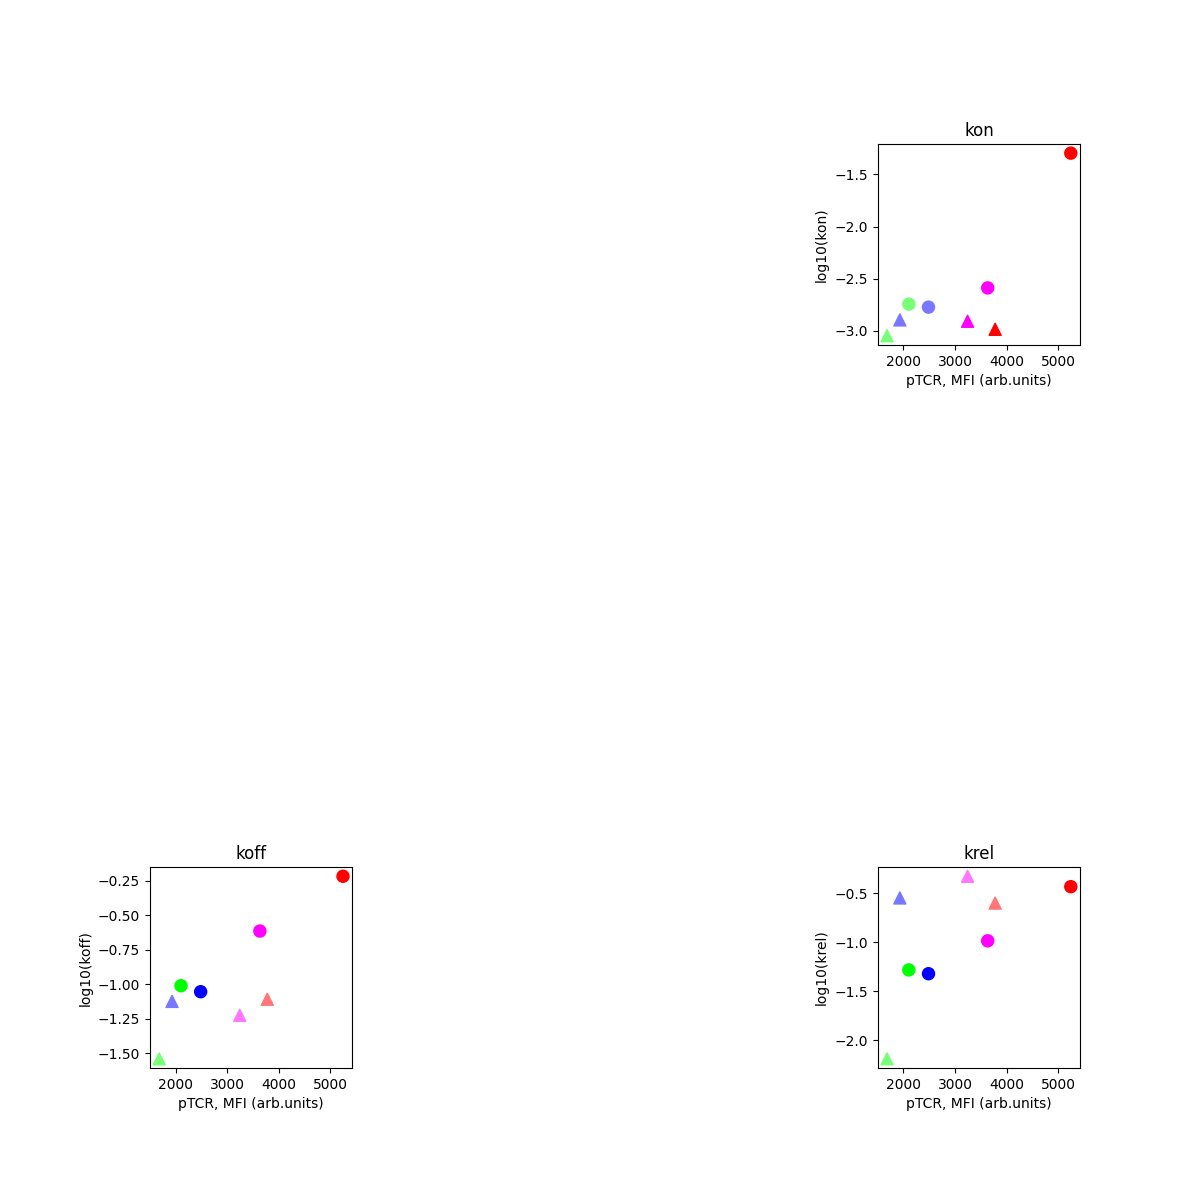
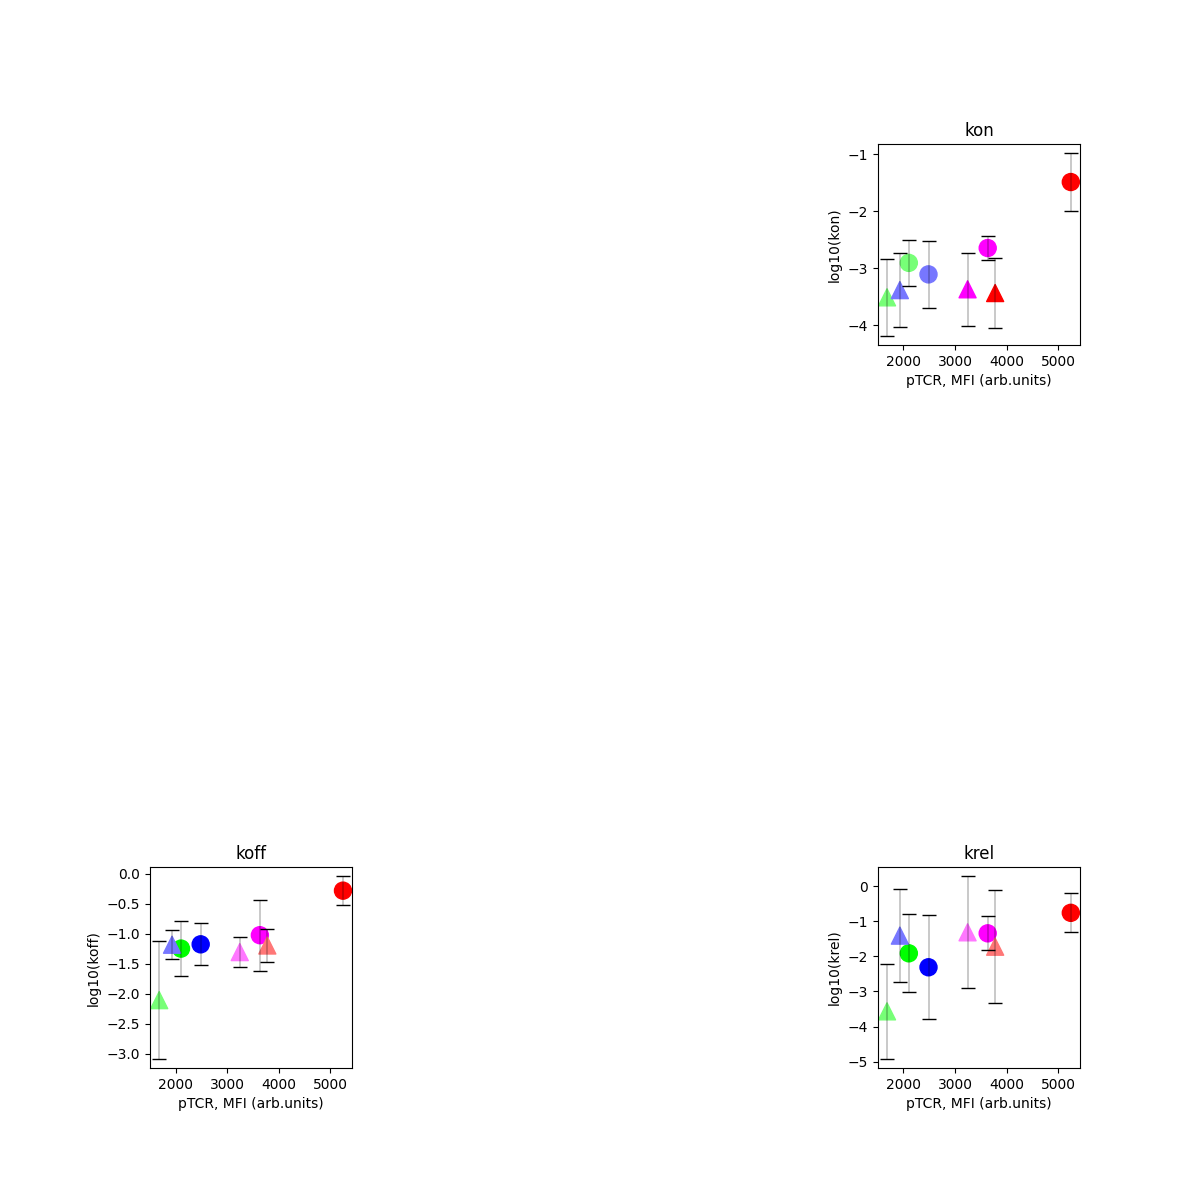
updated

diff --git a/other scripts and data/Fig 5C/kk_plots.py b/other scripts and data/Fig 5C/kk_plots.py
@@ -13,7 +13,8 @@ kNames2 = ["kon", "koff", "krel"]
 colors = np.array(["#ff0000", "#ff7777", "#ff00ff", "#ff77ff", "#00ff00", "#77ff77", "#0000ff", "#7777ff"])
 custom_cmap = ListedColormap(colors)
 
-values = []
+values_mean = []
+values_std = []
 
 fn_in_0 = 'pTCR.csv'
 
@@ -41,72 +42,65 @@ for i in range(3):
     data[np.where(data == '')] = 'nan'
     data_for_calc = data[:, 1:].astype(float)
     print(data_for_calc.shape)
-    means = np.nanmean(data_for_calc, 0)
-    logmeans = np.log10(means)
-    values.append(logmeans)
+    lod_data_for_calc = np.log10(data_for_calc)
+    #means = np.nanmean(data_for_calc, 0)
+    #logmeans = np.log10(means)
+    logmeans = np.nanmean(lod_data_for_calc, 0)
+    values_mean.append(logmeans)
+    logstd = np.nanstd(lod_data_for_calc, 0)
+    values_std.append(logstd)
 
 fig = plt.figure(figsize=(12, 12))
-# ax = fig.add_subplot(2, 2, 1, projection='3d')
-# ax.scatter(values[0], values[1], values[2], color=colors)
-# ax.xaxis.set_pane_color((0.0, 0.0, 0.0, 1.0))
-# ax.yaxis.set_pane_color((0.0, 0.0, 0.0, 1.0))
-# ax.zaxis.set_pane_color((0.0, 0.0, 0.0, 1.0))
 
 ax = fig.add_subplot(4, 4, 4)
 ax.set_title(kNames2[0])
-sc = ax.scatter(values_0, values[0], c=range(8), cmap=custom_cmap, s=5, marker='.')
-ax.scatter(values_0[[0, 2, 4, 6]], values[0][[0, 2, 4, 6]], c=[0, 2, 4, 6], cmap=custom_cmap, s=75, marker='o')
-ax.scatter(values_0[[1, 3, 5, 7]], values[0][[1, 3, 5, 7]], c=[1, 3, 5, 7], cmap=custom_cmap, s=75, marker='^')
-# xx = [values_0[0], values_0[0], values_0[0]]
-# yy = [values[0][0] + log10(0.5), values[0][0] + log10(0.2), values[0][0] + log10(0.1)]
-# ax.scatter(xx, yy, facecolors='none', edgecolors="#ff0000", s=75, marker='o')
+sc = ax.scatter(values_0, values_mean[0], c=range(8), cmap=custom_cmap, s=5, marker='.')
+ax.errorbar(values_0[[0, 2, 4, 6]], values_mean[0][[0, 2, 4, 6]], yerr=values_std[0][[0, 2, 4, 6]], fmt='none', ecolor='black', elinewidth=0.3, capsize=5)
+ax.errorbar(values_0[[1, 3, 5, 7]], values_mean[0][[1, 3, 5, 7]], yerr=values_std[0][[1, 3, 5, 7]], fmt='none', ecolor='black', elinewidth=0.3, capsize=5)
+ax.scatter(values_0[[0, 2, 4, 6]], values_mean[0][[0, 2, 4, 6]], c=[0, 2, 4, 6], cmap=custom_cmap, s=150, marker='o')
+ax.scatter(values_0[[1, 3, 5, 7]], values_mean[0][[1, 3, 5, 7]], c=[1, 3, 5, 7], cmap=custom_cmap, s=150, marker='^')
 ax.set_xlabel('pTCR, MFI (arb.units)')
 ax.set_ylabel(f'log10({kNames2[0]})')
-# cbar = fig.colorbar(sc, boundaries=np.arange(9) - 0.5)
-# cbar.set_ticks(np.arange(8))
-# cbar.set_ticklabels(ticklabels)
 
 ax = fig.add_subplot(4, 4, 13)
 ax.set_title(kNames2[1])
-sc = ax.scatter(values_0, values[1], c=range(8), cmap=custom_cmap, s=5, marker='.')
-ax.scatter(values_0[[0, 2, 4, 6]], values[1][[0, 2, 4, 6]], color=colors[[0, 2, 4, 6]], s=75, marker='o')
-ax.scatter(values_0[[1, 3, 5, 7]], values[1][[1, 3, 5, 7]], color=colors[[1, 3, 5, 7]], s=75, marker='^')
+sc = ax.scatter(values_0, values_mean[1], c=range(8), cmap=custom_cmap, s=5, marker='.')
+ax.errorbar(values_0[[0, 2, 4, 6]], values_mean[1][[0, 2, 4, 6]], yerr=values_std[1][[0, 2, 4, 6]], fmt='none', ecolor='black', elinewidth=0.3, capsize=5)
+ax.errorbar(values_0[[1, 3, 5, 7]], values_mean[1][[1, 3, 5, 7]], yerr=values_std[1][[1, 3, 5, 7]], fmt='none', ecolor='black', elinewidth=0.3, capsize=5)
+ax.scatter(values_0[[0, 2, 4, 6]], values_mean[1][[0, 2, 4, 6]], color=colors[[0, 2, 4, 6]], s=150, marker='o')
+ax.scatter(values_0[[1, 3, 5, 7]], values_mean[1][[1, 3, 5, 7]], color=colors[[1, 3, 5, 7]], s=150, marker='^')
 ax.set_xlabel('pTCR, MFI (arb.units)')
 ax.set_ylabel(f'log10({kNames2[1]})')
-# cbar = fig.colorbar(sc, boundaries=np.arange(9) - 0.5)
-# cbar.set_ticks(np.arange(8))
-# cbar.set_ticklabels(ticklabels)
 
 ax = fig.add_subplot(4, 4, 16)
 ax.set_title(kNames2[2])
-sc = ax.scatter(values_0, values[2], c=range(8), cmap=custom_cmap, s=5, marker='.')
-ax.scatter(values_0[[0, 2, 4, 6]], values[2][[0, 2, 4, 6]], color=colors[[0, 2, 4, 6]], s=75, marker='o')
-ax.scatter(values_0[[1, 3, 5, 7]], values[2][[1, 3, 5, 7]], color=colors[[1, 3, 5, 7]], s=75, marker='^')
+sc = ax.scatter(values_0, values_mean[2], c=range(8), cmap=custom_cmap, s=5, marker='.')
+ax.errorbar(values_0[[0, 2, 4, 6]], values_mean[2][[0, 2, 4, 6]], yerr=values_std[2][[0, 2, 4, 6]], fmt='none', ecolor='black', elinewidth=0.3, capsize=5)
+ax.errorbar(values_0[[1, 3, 5, 7]], values_mean[2][[1, 3, 5, 7]], yerr=values_std[2][[1, 3, 5, 7]], fmt='none', ecolor='black', elinewidth=0.3, capsize=5)
+ax.scatter(values_0[[0, 2, 4, 6]], values_mean[2][[0, 2, 4, 6]], color=colors[[0, 2, 4, 6]], s=150, marker='o')
+ax.scatter(values_0[[1, 3, 5, 7]], values_mean[2][[1, 3, 5, 7]], color=colors[[1, 3, 5, 7]], s=150, marker='^')
 ax.set_xlabel('pTCR, MFI (arb.units)')
 ax.set_ylabel(f'log10({kNames2[2]})')
-# cbar = fig.colorbar(sc, boundaries=np.arange(9) - 0.5)
-# cbar.set_ticks(np.arange(8))
-# cbar.set_ticklabels(ticklabels)
 
 plt.savefig(fn_out)
 
-rho, p_value = stats.spearmanr(values_0, values[0])
+rho, p_value = stats.spearmanr(values_0, values_mean[0])
 print(f"kon Spearman’s ρ: {rho:.3f}, p-value: {p_value:.4f}")
-rho, p_value = stats.spearmanr(values_0, values[1])
+rho, p_value = stats.spearmanr(values_0, values_mean[1])
 print(f"koff Spearman’s ρ: {rho:.3f}, p-value: {p_value:.4f}")
-rho, p_value = stats.spearmanr(values_0, values[2])
+rho, p_value = stats.spearmanr(values_0, values_mean[2])
 print(f"krel Spearman’s ρ: {rho:.3f}, p-value: {p_value:.4f}")
 
-rho, p_value = stats.pearsonr(values_0, values[0])
+rho, p_value = stats.pearsonr(values_0, values_mean[0])
 print(f"kon Pearson’s ρ: {rho:.3f}, p-value: {p_value:.4f}")
-rho, p_value = stats.pearsonr(values_0, values[1])
+rho, p_value = stats.pearsonr(values_0, values_mean[1])
 print(f"koff Pearson’s ρ: {rho:.3f}, p-value: {p_value:.4f}")
-rho, p_value = stats.pearsonr(values_0, values[2])
+rho, p_value = stats.pearsonr(values_0, values_mean[2])
 print(f"krel Pearson’s ρ: {rho:.3f}, p-value: {p_value:.4f}")
 
-rho, p_value = stats.kendalltau(values_0, values[0])
+rho, p_value = stats.kendalltau(values_0, values_mean[0])
 print(f"kon kendall tau: {rho:.3f}, p-value: {p_value:.4f}")
-rho, p_value = stats.kendalltau(values_0, values[1])
+rho, p_value = stats.kendalltau(values_0, values_mean[1])
 print(f"koff kendall tau: {rho:.3f}, p-value: {p_value:.4f}")
-rho, p_value = stats.kendalltau(values_0, values[2])
+rho, p_value = stats.kendalltau(values_0, values_mean[2])
 print(f"krel kendall tau: {rho:.3f}, p-value: {p_value:.4f}")
